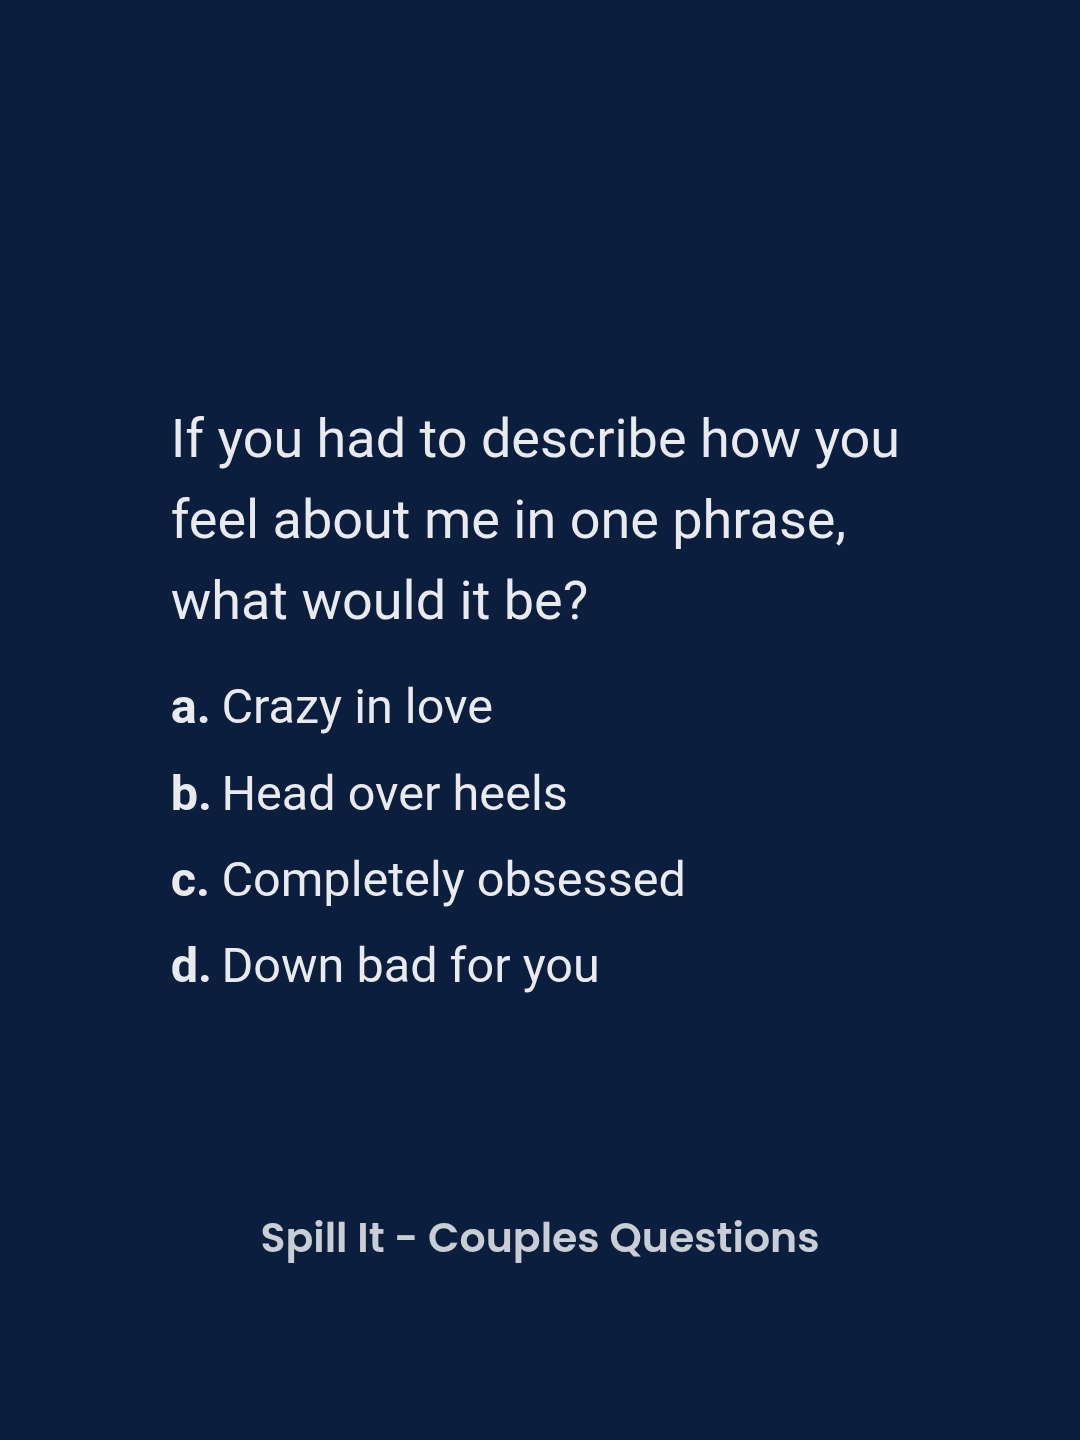
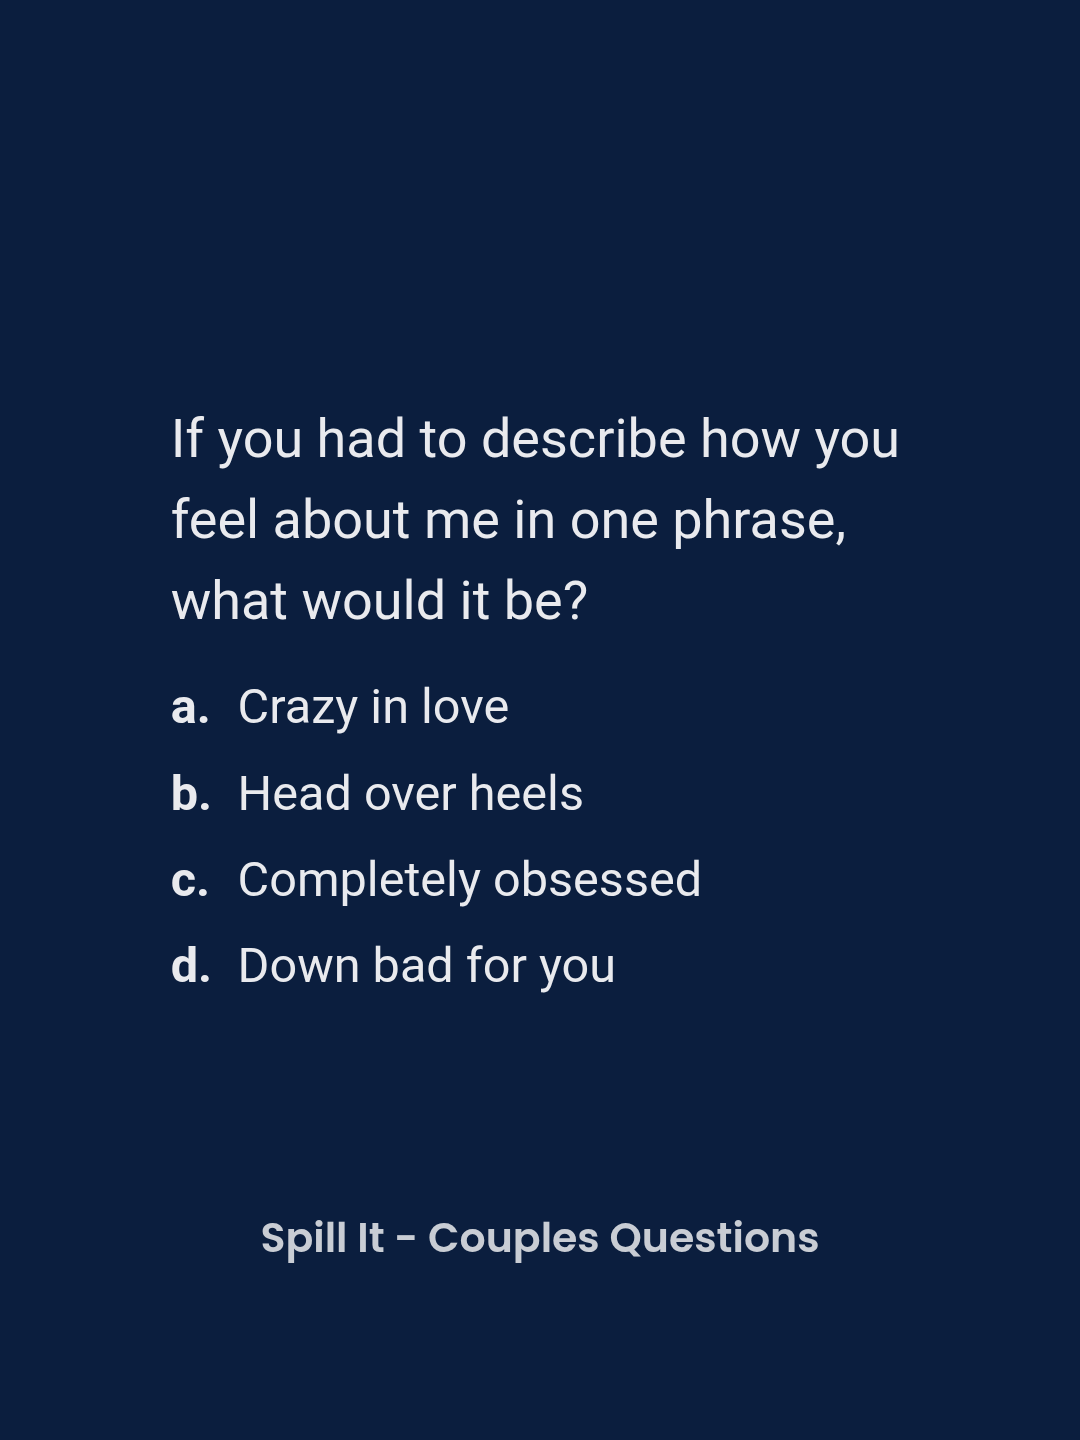
Give template 23 option text a two-space column.
Bold a.–d. labels were leaving only a single space before the answer. Option words and wrapped lines now share one column at 0.220 of the slide width.

diff --git a/app/lib/image-template-23-flat-dark.ts b/app/lib/image-template-23-flat-dark.ts
@@ -112,7 +112,8 @@ const QUESTION_WEIGHT = 400;
 const OPTION_GAP = 0.05;
 const OPTION_SIZE = 0.045;
 const OPTION_LINE_PITCH = 0.08;
-const OPTION_TEXT_X = 0.205;
+/** Shared column for option words and wrapped lines. Two spaces after "a."–"d.". */
+const OPTION_TEXT_X = 0.22;
 const OPTION_LABEL_WEIGHT = 700;
 
 const FOOTER_Y = 0.862;
